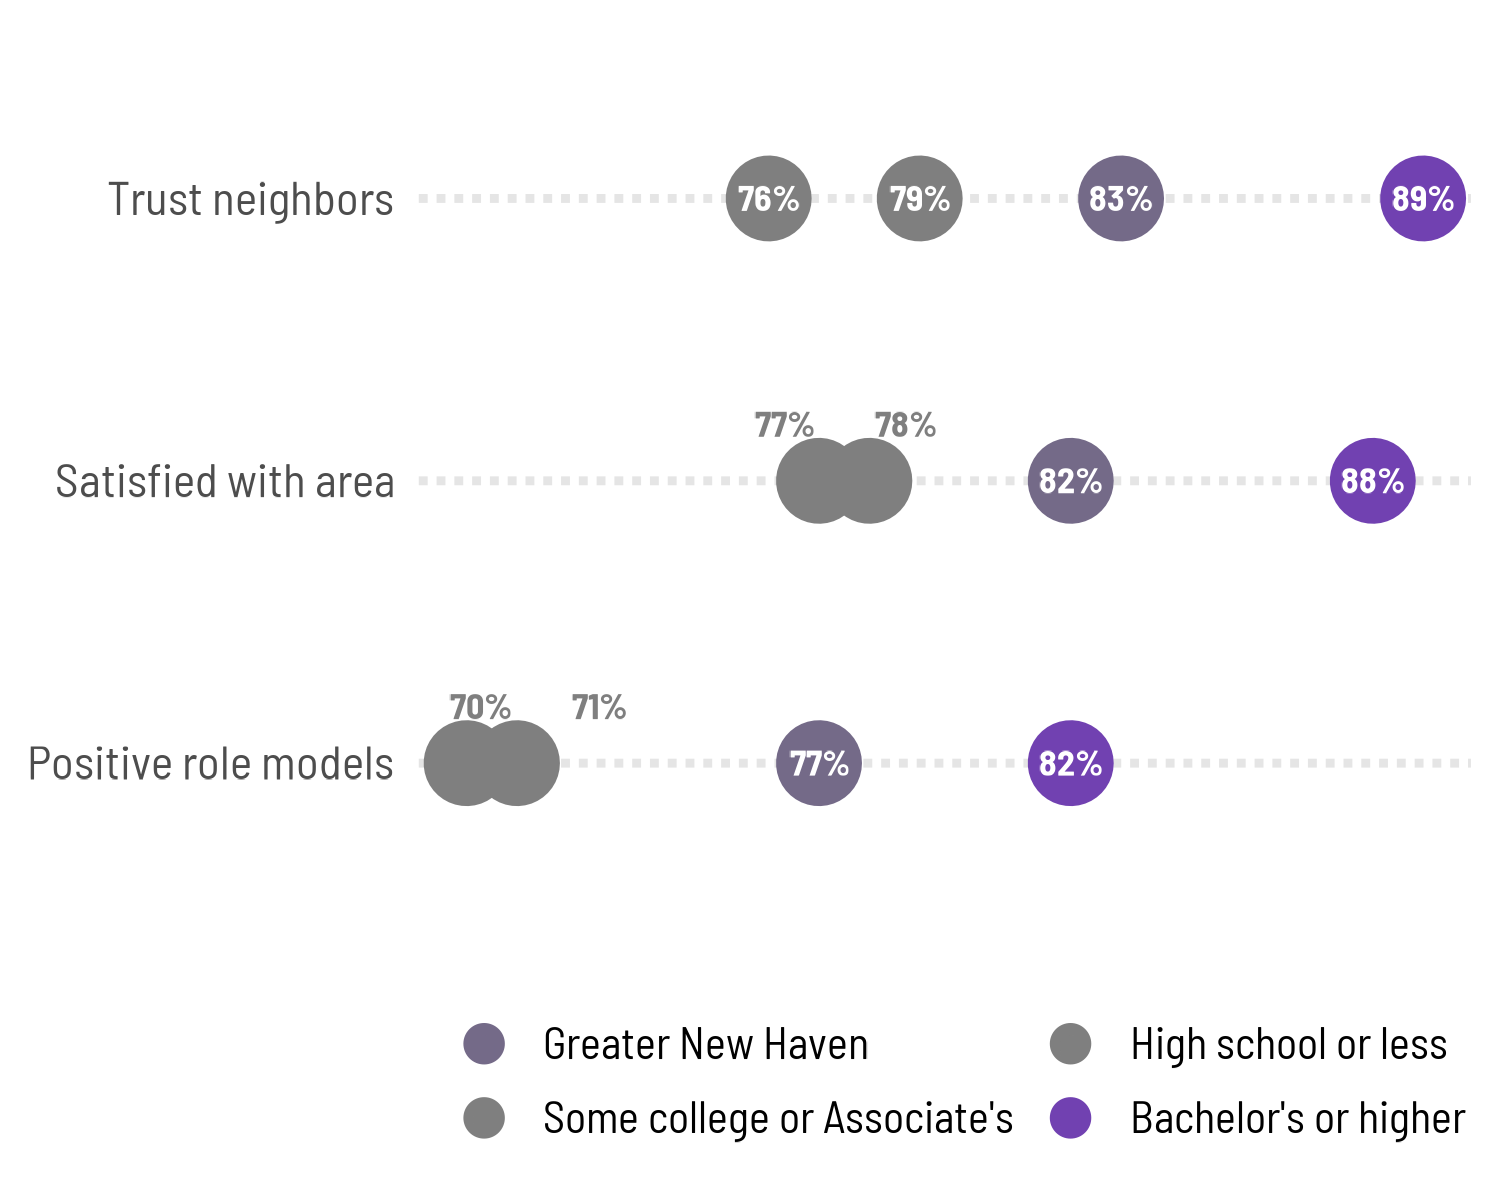
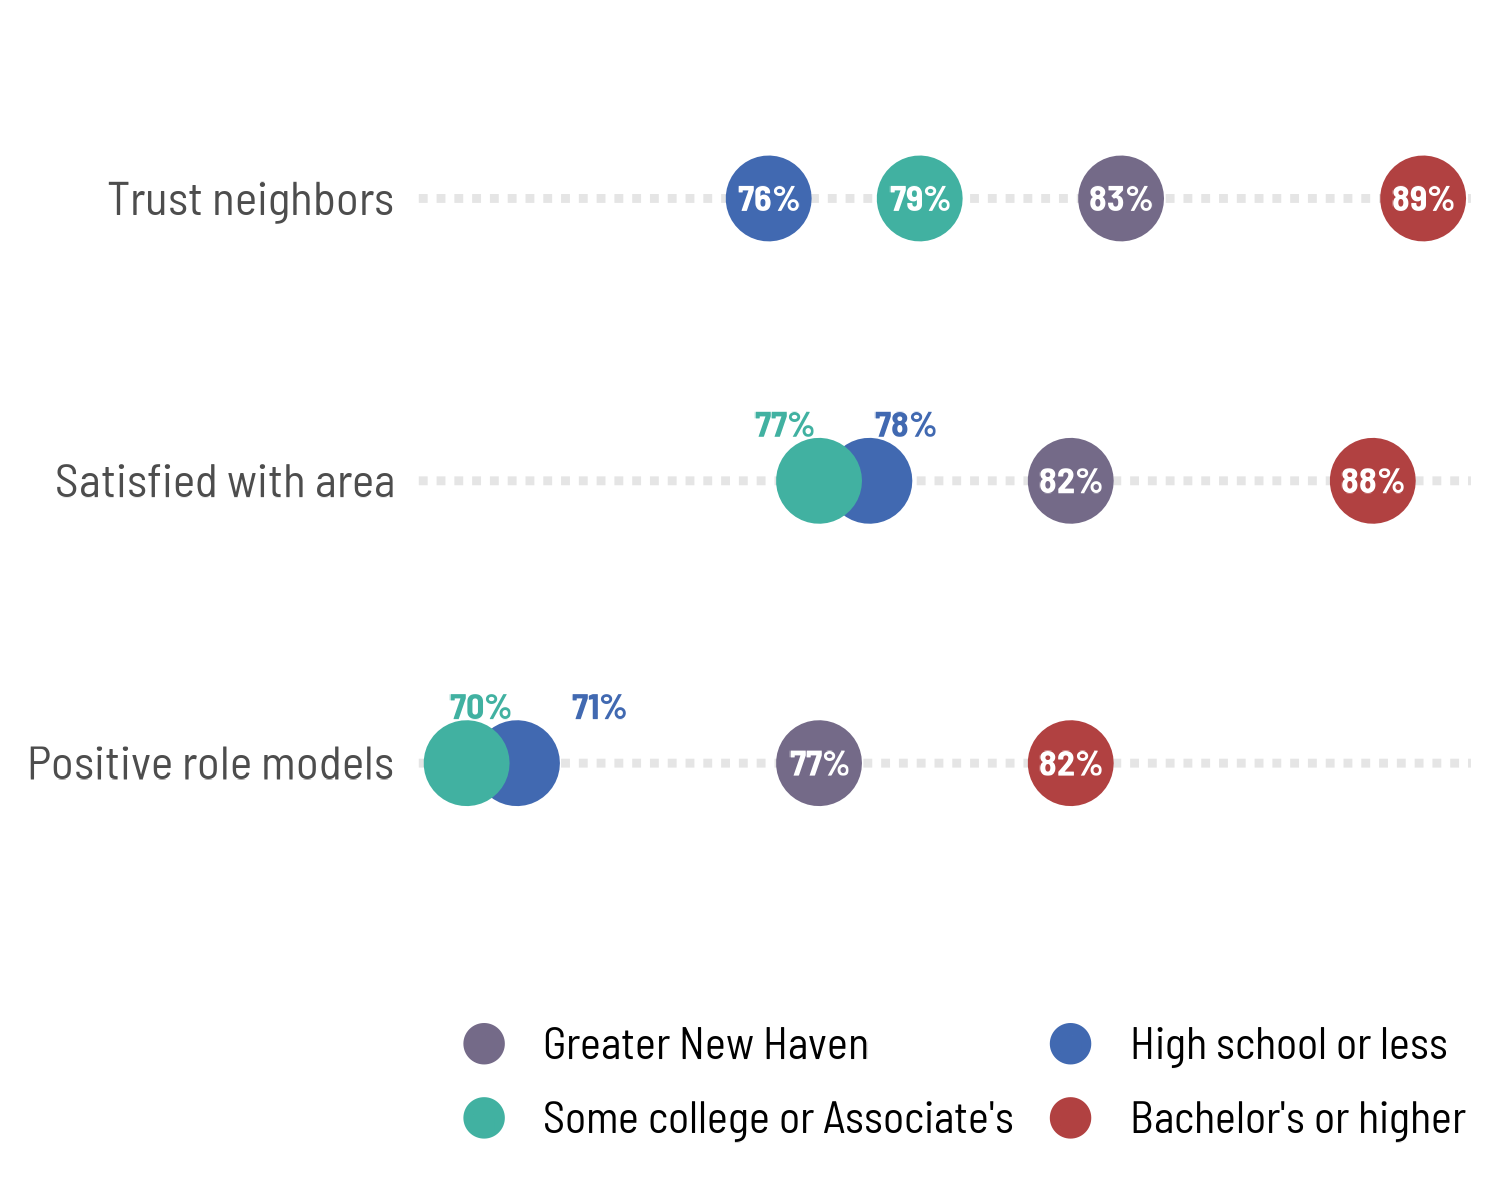
Built site for stylehaven: 0.1.0@a24f91d

diff --git a/articles/dcws_example_plots.html b/articles/dcws_example_plots.html
@@ -120,7 +120,9 @@ event, using data that’s bundled up with this package.</p>
 <span><span class="op">}</span></span>
 <span><span class="fu"><a href="https://ggplot2.tidyverse.org/reference/theme_get.html" class="external-link">theme_set</a></span><span class="op">(</span><span class="fu">theme_bar</span><span class="op">(</span><span class="op">)</span><span class="op">)</span></span>
 <span><span class="fu"><a href="https://ggplot2.tidyverse.org/reference/update_defaults.html" class="external-link">update_geom_defaults</a></span><span class="op">(</span><span class="st">"col"</span>, <span class="fu"><a href="https://rdrr.io/r/base/list.html" class="external-link">list</a></span><span class="op">(</span>fill <span class="op">=</span> <span class="va">base_col</span><span class="op">)</span><span class="op">)</span></span>
-<span><span class="fu"><a href="https://ggplot2.tidyverse.org/reference/update_defaults.html" class="external-link">update_geom_defaults</a></span><span class="op">(</span><span class="st">"text"</span>, <span class="fu"><a href="https://rdrr.io/r/base/list.html" class="external-link">list</a></span><span class="op">(</span>size <span class="op">=</span> <span class="fl">3.5</span>, fontface <span class="op">=</span> <span class="st">"bold"</span>, family <span class="op">=</span> <span class="st">"Barlow Semi Condensed"</span>, color <span class="op">=</span> <span class="va">tf_pal</span><span class="op">[[</span><span class="st">"FALSE"</span><span class="op">]</span><span class="op">]</span><span class="op">)</span><span class="op">)</span></span></code></pre></div>
+<span><span class="fu"><a href="https://ggplot2.tidyverse.org/reference/update_defaults.html" class="external-link">update_geom_defaults</a></span><span class="op">(</span><span class="st">"text"</span>, <span class="fu"><a href="https://rdrr.io/r/base/list.html" class="external-link">list</a></span><span class="op">(</span>size <span class="op">=</span> <span class="fl">3.5</span>, fontface <span class="op">=</span> <span class="st">"bold"</span>, family <span class="op">=</span> <span class="st">"Barlow Semi Condensed"</span>, color <span class="op">=</span> <span class="va">tf_pal</span><span class="op">[[</span><span class="st">"FALSE"</span><span class="op">]</span><span class="op">]</span><span class="op">)</span><span class="op">)</span></span>
+<span></span>
+<span><span class="va">pal4</span> <span class="op">&lt;-</span> <span class="fu"><a href="https://rdrr.io/r/base/unname.html" class="external-link">unname</a></span><span class="op">(</span><span class="va">qual_pal</span><span class="op">[</span><span class="fu"><a href="https://rdrr.io/r/base/c.html" class="external-link">c</a></span><span class="op">(</span><span class="st">"gray"</span>, <span class="st">"blue"</span>, <span class="st">"teal"</span>, <span class="st">"red"</span><span class="op">)</span><span class="op">]</span><span class="op">)</span></span></code></pre></div>
 <p>I’ll keep all the plots in one named list, and all their output
 parameters (width &amp; height, could also include something like logo
 placement) in another named list. Then I’ll map over these to save all
@@ -232,7 +234,7 @@ know exactly what the breaks will need to be.</p>
 <span>  <span class="fu"><a href="https://ggplot2.tidyverse.org/reference/geom_text.html" class="external-link">geom_text</a></span><span class="op">(</span><span class="fu"><a href="https://ggplot2.tidyverse.org/reference/aes.html" class="external-link">aes</a></span><span class="op">(</span>label <span class="op">=</span> <span class="va">lbl</span>, x <span class="op">=</span> <span class="va">x</span>, hjust <span class="op">=</span> <span class="va">just</span><span class="op">)</span><span class="op">)</span> <span class="op">+</span></span>
 <span>  <span class="fu"><a href="https://ggplot2.tidyverse.org/reference/scale_continuous.html" class="external-link">scale_x_continuous</a></span><span class="op">(</span>expand <span class="op">=</span> <span class="fu"><a href="https://ggplot2.tidyverse.org/reference/expansion.html" class="external-link">expansion</a></span><span class="op">(</span>add <span class="op">=</span> <span class="fu"><a href="https://rdrr.io/r/base/c.html" class="external-link">c</a></span><span class="op">(</span><span class="fl">2</span>, <span class="fl">1</span><span class="op">)</span><span class="op">)</span>, breaks <span class="op">=</span> <span class="fu"><a href="https://rdrr.io/r/base/c.html" class="external-link">c</a></span><span class="op">(</span><span class="fl">2015</span>, <span class="fl">2021</span><span class="op">)</span><span class="op">)</span> <span class="op">+</span></span>
 <span>  <span class="fu"><a href="https://ggplot2.tidyverse.org/reference/scale_continuous.html" class="external-link">scale_y_continuous</a></span><span class="op">(</span>breaks <span class="op">=</span> <span class="cn">NULL</span><span class="op">)</span> <span class="op">+</span></span>
-<span>  <span class="fu"><a href="https://ggplot2.tidyverse.org/reference/scale_manual.html" class="external-link">scale_color_manual</a></span><span class="op">(</span>values <span class="op">=</span> <span class="fu"><a href="https://rdrr.io/r/base/unname.html" class="external-link">unname</a></span><span class="op">(</span><span class="va">qual_pal</span><span class="op">[</span><span class="fu"><a href="https://rdrr.io/r/base/c.html" class="external-link">c</a></span><span class="op">(</span><span class="st">"pink"</span>, <span class="st">"yellow"</span>, <span class="st">"lime"</span>, <span class="st">"indigo"</span><span class="op">)</span><span class="op">]</span><span class="op">)</span><span class="op">)</span> <span class="op">+</span></span>
+<span>  <span class="fu"><a href="https://ggplot2.tidyverse.org/reference/scale_manual.html" class="external-link">scale_color_manual</a></span><span class="op">(</span>values <span class="op">=</span> <span class="va">pal4</span><span class="op">)</span> <span class="op">+</span></span>
 <span>  <span class="fu"><a href="https://ggplot2.tidyverse.org/reference/theme.html" class="external-link">theme</a></span><span class="op">(</span>legend.position <span class="op">=</span> <span class="st">"none"</span>,</span>
 <span>        panel.grid.major.x <span class="op">=</span> <span class="fu"><a href="https://ggplot2.tidyverse.org/reference/element.html" class="external-link">element_line</a></span><span class="op">(</span>color <span class="op">=</span> <span class="st">"gray90"</span><span class="op">)</span><span class="op">)</span> <span class="op">+</span></span>
 <span>  <span class="fu"><a href="https://ggplot2.tidyverse.org/reference/labs.html" class="external-link">labs</a></span><span class="op">(</span>x <span class="op">=</span> <span class="cn">NULL</span>, y <span class="op">=</span> <span class="cn">NULL</span>,</span>
@@ -254,7 +256,7 @@ frame.</p>
 <span>  <span class="co"># in practice I might use ggrepel</span></span>
 <span>  <span class="fu"><a href="https://ggplot2.tidyverse.org/reference/scale_continuous.html" class="external-link">scale_x_continuous</a></span><span class="op">(</span>expand <span class="op">=</span> <span class="fu"><a href="https://ggplot2.tidyverse.org/reference/expansion.html" class="external-link">expansion</a></span><span class="op">(</span>add <span class="op">=</span> <span class="fu"><a href="https://rdrr.io/r/base/c.html" class="external-link">c</a></span><span class="op">(</span><span class="fl">1</span>, <span class="fl">2</span><span class="op">)</span><span class="op">)</span>, breaks <span class="op">=</span> <span class="fu"><a href="https://rdrr.io/r/base/c.html" class="external-link">c</a></span><span class="op">(</span><span class="fl">2015</span>, <span class="fl">2021</span><span class="op">)</span><span class="op">)</span> <span class="op">+</span></span>
 <span>  <span class="fu"><a href="https://ggplot2.tidyverse.org/reference/scale_continuous.html" class="external-link">scale_y_continuous</a></span><span class="op">(</span>breaks <span class="op">=</span> <span class="cn">NULL</span><span class="op">)</span> <span class="op">+</span></span>
-<span>  <span class="fu"><a href="https://ggplot2.tidyverse.org/reference/scale_manual.html" class="external-link">scale_color_manual</a></span><span class="op">(</span>values <span class="op">=</span> <span class="fu"><a href="https://rdrr.io/r/base/unname.html" class="external-link">unname</a></span><span class="op">(</span><span class="va">qual_pal</span><span class="op">[</span><span class="fu"><a href="https://rdrr.io/r/base/c.html" class="external-link">c</a></span><span class="op">(</span><span class="st">"pink"</span>, <span class="st">"yellow"</span>, <span class="st">"lime"</span>, <span class="st">"indigo"</span><span class="op">)</span><span class="op">]</span><span class="op">)</span><span class="op">)</span> <span class="op">+</span></span>
+<span>  <span class="fu"><a href="https://ggplot2.tidyverse.org/reference/scale_manual.html" class="external-link">scale_color_manual</a></span><span class="op">(</span>values <span class="op">=</span> <span class="va">pal4</span><span class="op">)</span> <span class="op">+</span></span>
 <span>  <span class="fu"><a href="https://ggplot2.tidyverse.org/reference/theme.html" class="external-link">theme</a></span><span class="op">(</span>legend.position <span class="op">=</span> <span class="st">"none"</span>,</span>
 <span>        panel.grid.major.x <span class="op">=</span> <span class="fu"><a href="https://ggplot2.tidyverse.org/reference/element.html" class="external-link">element_line</a></span><span class="op">(</span>color <span class="op">=</span> <span class="st">"gray90"</span><span class="op">)</span><span class="op">)</span> <span class="op">+</span></span>
 <span>  <span class="fu"><a href="https://ggplot2.tidyverse.org/reference/labs.html" class="external-link">labs</a></span><span class="op">(</span>x <span class="op">=</span> <span class="cn">NULL</span>, y <span class="op">=</span> <span class="cn">NULL</span>,</span>
@@ -290,7 +292,7 @@ be considered too close; this is an absolute value.</p>
 <span>  <span class="fu"><a href="https://ggplot2.tidyverse.org/reference/coord_flip.html" class="external-link">coord_flip</a></span><span class="op">(</span><span class="op">)</span> <span class="op">+</span></span>
 <span>  <span class="fu"><a href="https://ggplot2.tidyverse.org/reference/scale_discrete.html" class="external-link">scale_x_discrete</a></span><span class="op">(</span>labels <span class="op">=</span> <span class="fu">camiller</span><span class="fu">::</span><span class="va"><a href="https://camille-s.github.io/camiller/reference/clean_titles.html" class="external-link">clean_titles</a></span><span class="op">)</span> <span class="op">+</span></span>
 <span>  <span class="fu"><a href="https://ggplot2.tidyverse.org/reference/scale_continuous.html" class="external-link">scale_y_continuous</a></span><span class="op">(</span>breaks <span class="op">=</span> <span class="cn">NULL</span><span class="op">)</span> <span class="op">+</span></span>
-<span>  <span class="fu"><a href="https://ggplot2.tidyverse.org/reference/scale_manual.html" class="external-link">scale_color_manual</a></span><span class="op">(</span>values <span class="op">=</span> <span class="fu"><a href="https://rdrr.io/r/base/unname.html" class="external-link">unname</a></span><span class="op">(</span><span class="va">qual_pal</span><span class="op">[</span><span class="fu"><a href="https://rdrr.io/r/base/c.html" class="external-link">c</a></span><span class="op">(</span><span class="st">"gray"</span>, <span class="st">"pink"</span>, <span class="st">"lime"</span>, <span class="st">"indigo"</span><span class="op">)</span><span class="op">]</span><span class="op">)</span>,</span>
+<span>  <span class="fu"><a href="https://ggplot2.tidyverse.org/reference/scale_manual.html" class="external-link">scale_color_manual</a></span><span class="op">(</span>values <span class="op">=</span> <span class="va">pal4</span>,</span>
 <span>                     guide <span class="op">=</span> <span class="fu"><a href="https://ggplot2.tidyverse.org/reference/guide_legend.html" class="external-link">guide_legend</a></span><span class="op">(</span>nrow <span class="op">=</span> <span class="fl">2</span>, byrow <span class="op">=</span> <span class="cn">TRUE</span>, override.aes <span class="op">=</span> <span class="fu"><a href="https://rdrr.io/r/base/list.html" class="external-link">list</a></span><span class="op">(</span>size <span class="op">=</span> <span class="fl">4</span><span class="op">)</span><span class="op">)</span><span class="op">)</span> <span class="op">+</span></span>
 <span>  <span class="fu"><a href="https://ggplot2.tidyverse.org/reference/theme.html" class="external-link">theme</a></span><span class="op">(</span>legend.position <span class="op">=</span> <span class="st">"bottom"</span>,</span>
 <span>        panel.grid.major.y <span class="op">=</span> <span class="fu"><a href="https://ggplot2.tidyverse.org/reference/element.html" class="external-link">element_line</a></span><span class="op">(</span>size <span class="op">=</span> <span class="fl">1</span>, linetype <span class="op">=</span> <span class="st">"11"</span>, color <span class="op">=</span> <span class="st">"gray90"</span><span class="op">)</span><span class="op">)</span> <span class="op">+</span></span>
@@ -325,7 +327,7 @@ be considered too close; this is an absolute value.</p>
 <span>  <span class="fu"><a href="https://ggplot2.tidyverse.org/reference/coord_flip.html" class="external-link">coord_flip</a></span><span class="op">(</span><span class="op">)</span> <span class="op">+</span></span>
 <span>  <span class="fu"><a href="https://ggplot2.tidyverse.org/reference/scale_discrete.html" class="external-link">scale_x_discrete</a></span><span class="op">(</span>labels <span class="op">=</span> <span class="fu">camiller</span><span class="fu">::</span><span class="va"><a href="https://camille-s.github.io/camiller/reference/clean_titles.html" class="external-link">clean_titles</a></span><span class="op">)</span> <span class="op">+</span></span>
 <span>  <span class="fu"><a href="https://ggplot2.tidyverse.org/reference/scale_continuous.html" class="external-link">scale_y_continuous</a></span><span class="op">(</span>breaks <span class="op">=</span> <span class="cn">NULL</span><span class="op">)</span> <span class="op">+</span></span>
-<span>  <span class="fu"><a href="https://ggplot2.tidyverse.org/reference/scale_manual.html" class="external-link">scale_color_manual</a></span><span class="op">(</span>values <span class="op">=</span> <span class="fu"><a href="https://rdrr.io/r/base/unname.html" class="external-link">unname</a></span><span class="op">(</span><span class="va">qual_pal</span><span class="op">[</span><span class="fu"><a href="https://rdrr.io/r/base/c.html" class="external-link">c</a></span><span class="op">(</span><span class="st">"gray"</span>, <span class="st">"pink"</span>, <span class="st">"lime"</span>, <span class="st">"indigo"</span><span class="op">)</span><span class="op">]</span><span class="op">)</span>,</span>
+<span>  <span class="fu"><a href="https://ggplot2.tidyverse.org/reference/scale_manual.html" class="external-link">scale_color_manual</a></span><span class="op">(</span>values <span class="op">=</span> <span class="va">pal4</span>,</span>
 <span>                     guide <span class="op">=</span> <span class="fu"><a href="https://ggplot2.tidyverse.org/reference/guide_legend.html" class="external-link">guide_legend</a></span><span class="op">(</span>nrow <span class="op">=</span> <span class="fl">2</span>, byrow <span class="op">=</span> <span class="cn">TRUE</span>, override.aes <span class="op">=</span> <span class="fu"><a href="https://rdrr.io/r/base/list.html" class="external-link">list</a></span><span class="op">(</span>size <span class="op">=</span> <span class="fl">4</span><span class="op">)</span><span class="op">)</span><span class="op">)</span> <span class="op">+</span></span>
 <span>  <span class="fu"><a href="https://ggplot2.tidyverse.org/reference/theme.html" class="external-link">theme</a></span><span class="op">(</span>legend.position <span class="op">=</span> <span class="st">"bottom"</span>,</span>
 <span>        panel.grid.major.y <span class="op">=</span> <span class="fu"><a href="https://ggplot2.tidyverse.org/reference/element.html" class="external-link">element_line</a></span><span class="op">(</span>size <span class="op">=</span> <span class="fl">1</span>, linetype <span class="op">=</span> <span class="st">"11"</span>, color <span class="op">=</span> <span class="st">"gray90"</span><span class="op">)</span><span class="op">)</span> <span class="op">+</span></span>
